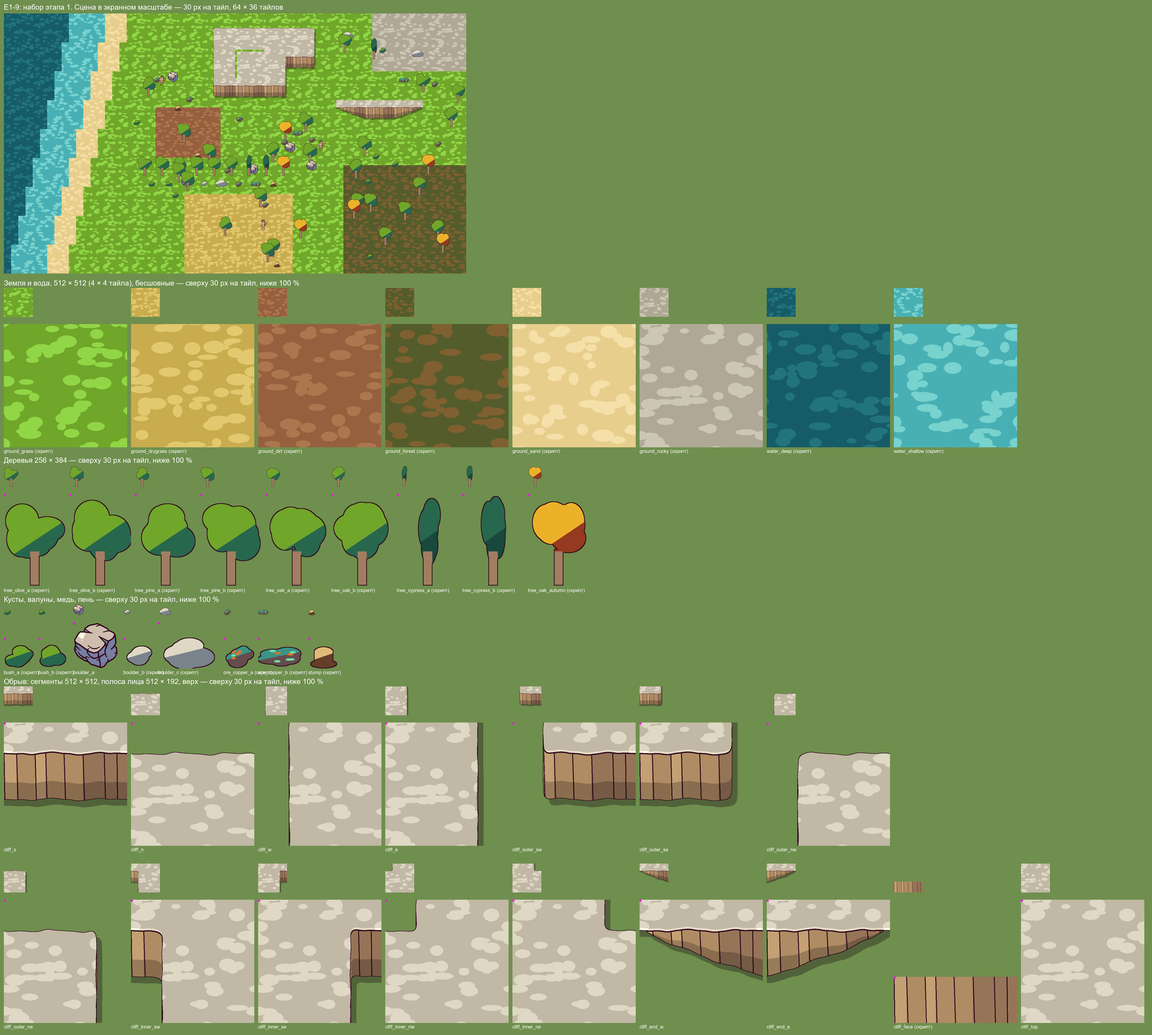
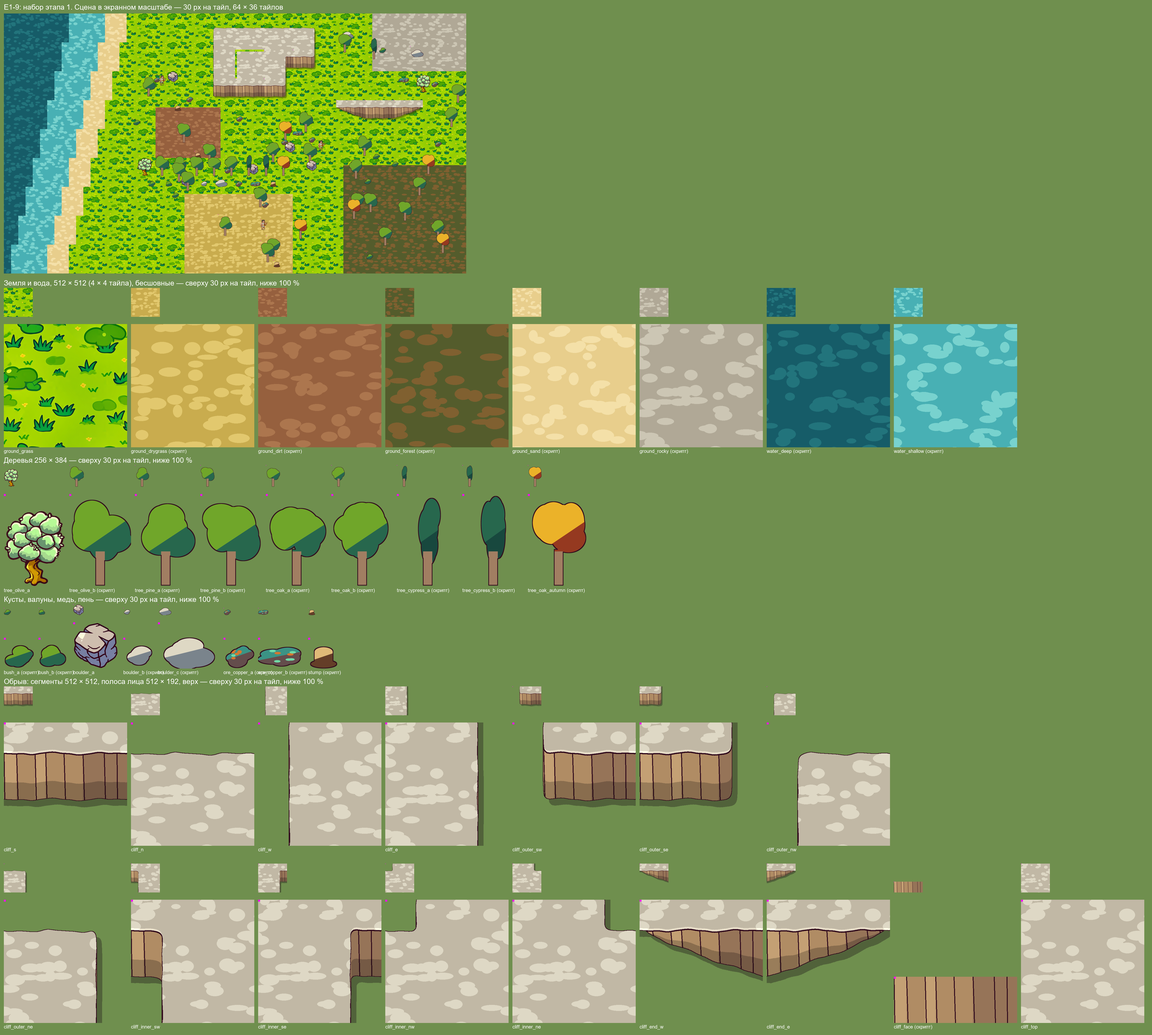
E1-9: олива по новому стилю, промпты земли и деревьев переписаны, очередь перезаказана (WIP)
- земля и вода: стиль floor — ровный мелкий узор без крупных пятен и акцентов
- деревья и кусты: стиль tree — крона из комков с двумя ступенями светотени
- TEMP_tree_olive_a — картинка Мака по новому промпту
- карточка: таблица заданий (старые — @v1), что получилось

Changed region(s): [[0.0623, 0.0, 0.4049, 0.2805], [0.0, 0.2805, 0.1246, 0.5611]]

diff --git a/work/tasks/E1-9.md b/work/tasks/E1-9.md
@@ -59,41 +59,70 @@ python tools/check_temp_assets.py
 | № | Ключ | Файл | id задания | seed | Размер | Статус | Предмет (промпт) |
 |---|---|---|---|---|---|---|---|
 | 1 | `boulder_a` | `TEMP_boulder_a.png` | `685c2248-6cd2-4e9d-a6f7-c41f23acb21b` | 1941 | 768×768 | готово | a single limestone boulder, three-quarter view from above: a massive rounded block with three or four big flat facets, warm light beige-grey top faces, cooler blue-grey shadow side on the right, two cracks |
-| 2 | `ground_grass` | `TEMP_ground_grass.png` | `71aa6e36-95c0-4ef2-851d-a49a69fa637f` | 1901 | 1024×1024 | в очереди | a sunny Greek meadow ground texture: short lush leaf-green grass drawn as large simple flat tufts and broad soft patches of two close greens, only a few tiny yellow flowers, big simple shapes |
-| 3 | `tree_olive_a` | `TEMP_tree_olive_a.png` | `7672a72a-e93b-4a7a-bbee-453c1ca00719` | 1921 | 768×1024 | в очереди | an old olive tree, three-quarter view from above: a wide rounded crown of silvery sage-green foliage drawn as five or six large simple leaf clumps with dark green shadow side, a short thick twisted ochre-brown trunk visible below the crown, the whole tree from roots to crown in frame, the crown is twice as wide as it is tall, trunk base at the bottom center |
-| 4 | `cliff_scene` | `— (проба: обрыв целиком)` | `be9775d3-1844-4617-810d-26294b6d294f` | 1972 | 1024×768 | в очереди | a long straight rocky cliff wall running horizontally across the whole picture from the left edge to the right edge: the upper third of the picture is a flat pale beige stony plateau on top of the cliff, below it the vertical cliff face of big blocky ochre-beige limestone slabs with dark cracks, at the bottom a strip of flat green grass in the cliff's shadow; the cliff continues past the left and right edges |
-| 5 | `ground_drygrass` | `TEMP_ground_drygrass.png` | `fe5fce37-d30a-44ec-9021-cfc788409b11` | 1902 | 1024×1024 | в очереди | a dry summer grassland ground texture: sun-bleached straw-yellow and golden ochre dry grass drawn as large simple flat tufts and broad patches of two close warm yellows, a few olive-green blades, big simple shapes |
-| 6 | `ground_dirt` | `TEMP_ground_dirt.png` | `0a2665ba-8ace-430f-bf18-01e0e1a329b4` | 1903 | 1024×1024 | в очереди | a bare earth ground texture: warm terracotta-brown packed soil with broad flat patches of two close browns, a few thin cracks and a few small pebbles, big simple shapes |
-| 7 | `ground_forest` | `TEMP_ground_forest.png` | `ab757cee-f564-490b-8e99-35b3f6489bd6` | 1904 | 1024×1024 | в очереди | a forest floor ground texture: dark olive-green moss and brown earth covered with large flat fallen leaves in rust, ochre and dark green, a few short twigs, big simple shapes |
-| 8 | `ground_sand` | `TEMP_ground_sand.png` | `d0577d68-3cb5-473d-b04c-109ee89c7c27` | 1905 | 1024×1024 | в очереди | a beach sand ground texture: pale golden-yellow sand with broad soft flat ripples of two close sandy tones, a few tiny shells and pebbles, big simple shapes |
-| 9 | `ground_rocky` | `TEMP_ground_rocky.png` | `83a4a1e8-9dbf-464b-8d5c-a9d6acea716e` | 1906 | 1024×1024 | в очереди | a rocky ground texture: flat cracked pale grey-beige limestone slabs of irregular shapes fitted together, dark cracks between them, a little ochre dust and a few small stones, big simple shapes |
-| 10 | `water_deep` | `TEMP_water_deep.png` | `122fd1eb-7827-4358-ac62-263ff23388c2` | 1911 | 1024×1024 | в очереди | a deep sea water surface texture: dark teal blue-green water with a few large simple flat wave shapes in a slightly lighter teal and sparse thin pale wave lines, calm, big simple shapes |
-| 11 | `water_shallow` | `TEMP_water_shallow.png` | `6b17c540-78c6-477f-8a7f-ae990a7ea5ff` | 1912 | 1024×1024 | в очереди | a shallow clear sea water surface texture: light turquoise water with large simple flat lighter aqua patches and sparse thin white wave lines, sandy bottom faintly visible, calm, big simple shapes |
-| 12 | `tree_pine_a` | `TEMP_tree_pine_a.png` | `7b7a5b4d-7897-467d-aa22-485d2971eea4` | 1923 | 768×1024 | в очереди | an Italian stone pine tree, umbrella pine, three-quarter view from above: a broad flat umbrella-shaped crown of dark emerald-green needle clumps drawn as large simple rounded masses with lighter green tops, a tall straight reddish-brown trunk with a few bare branches visible below the crown, the whole tree from roots to crown in frame, trunk base at the bottom center |
-| 13 | `tree_oak_a` | `TEMP_tree_oak_a.png` | `35d467b6-094d-4e8a-8a16-f00bcd863401` | 1925 | 768×1024 | в очереди | a big oak tree, three-quarter view from above: a large dense round crown of rich leaf-green foliage drawn as six or seven large simple lobed leaf clumps with darker green shadow side and light yellow-green tops, a thick dark brown trunk visible below the crown, the whole tree from roots to crown in frame, trunk base at the bottom center |
-| 14 | `tree_cypress_a` | `TEMP_tree_cypress_a.png` | `beeb63ab-b8e0-4d0e-a734-e4ce0c53778f` | 1927 | 768×1024 | в очереди | a tall Mediterranean cypress tree, three-quarter view from above: a narrow tall pointed column of very dark blue-green foliage drawn as a few large simple vertical flame-like masses with a lighter green lit left side, a short brown trunk visible at the very bottom, the whole tree from base to tip in frame, trunk base at the bottom center |
-| 15 | `cliff_face` | `TEMP_cliff_face.png (полоса лица)` | `5189e183-69f7-4946-ae17-248328ea4c2d` | 1971 | 1024×576 | в очереди | a flat texture strip of a vertical rocky cliff face seen from the front: big blocky limestone slabs in warm ochre-beige with cooler grey-brown shadow sides and dark vertical cracks, the rock wall fills the whole picture and continues past the left and right edges, uniform even density, no ground, no sky |
-| 16 | `boulder_b` | `TEMP_boulder_b.png` | `47031816-60e5-4864-a706-35007320c319` | 1942 | 768×768 | в очереди | a single small round limestone rock with a smaller stone leaning against it, three-quarter view from above: simple chunky shapes with big flat facets, warm light beige-grey top faces, cooler blue-grey shadow side on the right |
-| 17 | `boulder_c` | `TEMP_boulder_c.png` | `4cd84f92-70a6-4895-b0f2-82cb1ff8e493` | 1943 | 1024×768 | в очереди | a single wide flat-topped limestone outcrop, three-quarter view from above: a long low massive rock twice as wide as tall with four or five big flat facets, warm light beige-grey top faces, cooler blue-grey shadow side on the right, a patch of green moss, two cracks |
-| 18 | `tree_olive_b` | `TEMP_tree_olive_b.png` | `5d672662-7566-40e0-bed3-7e2b8a616b3b` | 1922 | 768×1024 | в очереди | a young olive tree, three-quarter view from above: an uneven lopsided crown of silvery sage-green foliage drawn as four large simple leaf clumps with dark green shadow side, a slim forked twisted ochre-brown trunk visible below the crown, the whole tree from roots to crown in frame, trunk base at the bottom center |
-| 19 | `tree_pine_b` | `TEMP_tree_pine_b.png` | `cb72f4e4-2f9e-44ff-9c74-1100d29b3a52` | 1924 | 768×1024 | в очереди | a leaning Italian stone pine tree, umbrella pine, three-quarter view from above: a wide flat lopsided umbrella crown of dark emerald-green needle clumps drawn as three large simple rounded masses with lighter green tops, a tall slightly curved reddish-brown trunk visible below the crown, the whole tree from roots to crown in frame, trunk base at the bottom center |
-| 20 | `tree_oak_b` | `TEMP_tree_oak_b.png` | `68746eb5-e6cf-4cdc-bfb9-6b4b1dbfc086` | 1926 | 768×1024 | в очереди | a sturdy oak tree, three-quarter view from above: a broad irregular crown of rich leaf-green foliage drawn as five large simple lobed leaf clumps with darker green shadow side and light yellow-green tops, a thick gnarled dark brown trunk with one big side branch visible below the crown, the whole tree from roots to crown in frame, trunk base at the bottom center |
-| 21 | `tree_cypress_b` | `TEMP_tree_cypress_b.png` | `210cbde0-ae5d-47df-b0c7-b7910520c933` | 1928 | 768×1024 | в очереди | a Mediterranean cypress tree, three-quarter view from above: a slim spindle-shaped pointed column of very dark blue-green foliage, slightly bulging in the middle, drawn as a few large simple vertical masses with a lighter green lit left side, a short brown trunk visible at the very bottom, the whole tree from base to tip in frame, trunk base at the bottom center |
-| 22 | `tree_oak_autumn` | `TEMP_tree_oak_autumn.png` | `2ff9bbd3-82aa-4ac9-a42f-46bdb49687b5` | 1929 | 768×1024 | в очереди | a big oak tree in autumn, three-quarter view from above: a large round crown of dry autumn foliage in rust-orange, golden ochre and warm red drawn as six large simple lobed leaf clumps with darker brown-red shadow side, a thick dark brown trunk visible below the crown, the whole tree from roots to crown in frame, trunk base at the bottom center |
-| 23 | `bush_a` | `TEMP_bush_a.png` | `c0d04f22-1d5b-4d86-a277-8cb9521c03f3` | 1931 | 768×768 | в очереди | a single low round shrub, three-quarter view from above: a compact dome of leaf-green foliage drawn as four or five large simple leaf clumps with darker green shadow side, no trunk visible, no flowers |
-| 24 | `bush_b` | `TEMP_bush_b.png` | `c9c774f0-01fc-4cfb-94ec-2c4e269bfc33` | 1932 | 768×768 | в очереди | a single low wide myrtle shrub with berries, three-quarter view from above: an irregular low mound of dark green foliage drawn as three or four large simple leaf clumps with a few big red berries, no trunk visible |
-| 25 | `ore_copper_a` | `TEMP_ore_copper_a.png` | `38ce4a61-cc09-447e-8a21-d6ab3b4af2b5` | 1951 | 768×768 | в очереди | a single copper ore deposit, three-quarter view from above: a chunky dark grey-brown rock with big flat facets, crossed by thick bright verdigris turquoise-green veins and rust-orange copper patches, a few shiny orange copper nuggets on top |
-| 26 | `ore_copper_b` | `TEMP_ore_copper_b.png` | `47ddeeb6-a391-47fd-8d33-d3823d8f3cd7` | 1952 | 768×768 | в очереди | a single copper ore deposit, three-quarter view from above: a low wide cluster of three chunky dark grey-brown rocks with big flat facets, streaked with thick bright verdigris turquoise-green veins and rust-orange copper patches |
-| 27 | `stump` | `TEMP_stump.png` | `58c8330b-5eb1-427c-872b-78937d3f0211` | 1961 | 768×768 | в очереди | a single tree stump, three-quarter view from above: a short wide cut trunk with a flat pale ochre top showing three big growth rings, dark brown bark sides, three short thick roots spreading at the base |
-| 28 | `cliff_corner` | `— (проба: угол обрыва)` | `5e4a3fb0-29eb-41ff-83e0-1aad82185052` | 1973 | 1024×1024 | в очереди | the outer corner of a raised rocky plateau: a flat pale beige stony plateau fills the upper left part of the picture, its edge turns a rounded corner, below the edge the vertical cliff face of big blocky ochre-beige limestone slabs with dark cracks drops down to flat green grass, the grass fills the right side and the bottom of the picture |
+| 2 | `cliff_scene` | `— (проба: обрыв целиком)` | `be9775d3-1844-4617-810d-26294b6d294f` | 1972 | 1024×768 | готово | a long straight rocky cliff wall running horizontally across the whole picture from the left edge to the right edge: the upper third of the picture is a flat pale beige stony plateau on top of the cliff, below it the vertical cliff face of big blocky ochre-beige limestone slabs with dark cracks, at the bottom a strip of flat green grass in the cliff's shadow; the cliff continues past the left and right edges |
+| 3 | `ground_drygrass` | `TEMP_ground_drygrass.png` | `fe5fce37-d30a-44ec-9021-cfc788409b11` | 1902 | 1024×1024 | в очереди | a dry summer grassland ground texture: sun-bleached straw-yellow dry grass as an even fine pattern of small short grass strokes and tiny tufts in two close warm golden yellows, the same fine pattern evenly everywhere, no large patches, no big blotches, no accents, nothing stands out |
+| 4 | `tree_olive_a` | `TEMP_tree_olive_a.png` | `50ce2a63-c754-4898-8ebe-79a38f74afa4` | 1921 | 768×1024 | готово; проба стиля «tree» (в начало очереди) — принята как tree_olive_a | an old olive tree, three-quarter view from above: a wide rounded crown built from seven or eight overlapping rounded clumps of silvery sage-green foliage, each clump with a light sunlit top and a darker shaded underside, a few simple leaf shapes along the clump edges, a short thick twisted ochre-brown trunk with a darker shadow side visible below the crown, the tree fills most of the picture, the whole tree from roots to crown in frame, trunk base at the bottom center |
+| 5 | `tree_pine_b@v1` | `TEMP_tree_pine_b.png` | `cb72f4e4-2f9e-44ff-9c74-1100d29b3a52` | 1924 | 768×1024 | cancelled; снято из очереди до запуска: промпт переписан | первый вариант промпта — `e19.json` в коммите c1f87db |
+| 6 | `ground_dirt@v1` | `TEMP_ground_dirt.png` | `0a2665ba-8ace-430f-bf18-01e0e1a329b4` | 1903 | 1024×1024 | cancelled; снято из очереди до запуска: промпт переписан | первый вариант промпта — `e19.json` в коммите c1f87db |
+| 7 | `water_deep@v1` | `TEMP_water_deep.png` | `122fd1eb-7827-4358-ac62-263ff23388c2` | 1911 | 1024×1024 | cancelled; снято из очереди до запуска: промпт переписан | первый вариант промпта — `e19.json` в коммите c1f87db |
+| 8 | `ground_forest@v1` | `TEMP_ground_forest.png` | `ab757cee-f564-490b-8e99-35b3f6489bd6` | 1904 | 1024×1024 | cancelled; снято из очереди до запуска: промпт переписан | первый вариант промпта — `e19.json` в коммите c1f87db |
+| 9 | `tree_oak_a@v1` | `TEMP_tree_oak_a.png` | `35d467b6-094d-4e8a-8a16-f00bcd863401` | 1925 | 768×1024 | cancelled; снято из очереди до запуска: промпт переписан | первый вариант промпта — `e19.json` в коммите c1f87db |
+| 10 | `water_shallow@v1` | `TEMP_water_shallow.png` | `6b17c540-78c6-477f-8a7f-ae990a7ea5ff` | 1912 | 1024×1024 | cancelled; снято из очереди до запуска: промпт переписан | первый вариант промпта — `e19.json` в коммите c1f87db |
+| 11 | `boulder_b@v1` | `TEMP_boulder_b.png` | `47031816-60e5-4864-a706-35007320c319` | 1942 | 768×768 | cancelled; снято из очереди до запуска: промпт переписан | первый вариант промпта — `e19.json` в коммите c1f87db |
+| 12 | `ground_rocky@v1` | `TEMP_ground_rocky.png` | `83a4a1e8-9dbf-464b-8d5c-a9d6acea716e` | 1906 | 1024×1024 | cancelled; снято из очереди до запуска: промпт переписан | первый вариант промпта — `e19.json` в коммите c1f87db |
+| 13 | `tree_oak_autumn@v1` | `TEMP_tree_oak_autumn.png` | `2ff9bbd3-82aa-4ac9-a42f-46bdb49687b5` | 1929 | 768×1024 | cancelled; снято из очереди до запуска: промпт переписан | первый вариант промпта — `e19.json` в коммите c1f87db |
+| 14 | `tree_cypress_b@v1` | `TEMP_tree_cypress_b.png` | `210cbde0-ae5d-47df-b0c7-b7910520c933` | 1928 | 768×1024 | cancelled; снято из очереди до запуска: промпт переписан | первый вариант промпта — `e19.json` в коммите c1f87db |
+| 15 | `boulder_c@v1` | `TEMP_boulder_c.png` | `4cd84f92-70a6-4895-b0f2-82cb1ff8e493` | 1943 | 1024×768 | cancelled; снято из очереди до запуска: промпт переписан | первый вариант промпта — `e19.json` в коммите c1f87db |
+| 16 | `tree_pine_a@v1` | `TEMP_tree_pine_a.png` | `7b7a5b4d-7897-467d-aa22-485d2971eea4` | 1923 | 768×1024 | cancelled; снято из очереди до запуска: промпт переписан | первый вариант промпта — `e19.json` в коммите c1f87db |
+| 17 | `ground_sand@v1` | `TEMP_ground_sand.png` | `d0577d68-3cb5-473d-b04c-109ee89c7c27` | 1905 | 1024×1024 | cancelled; снято из очереди до запуска: промпт переписан | первый вариант промпта — `e19.json` в коммите c1f87db |
+| 18 | `tree_olive_b@v1` | `TEMP_tree_olive_b.png` | `5d672662-7566-40e0-bed3-7e2b8a616b3b` | 1922 | 768×1024 | cancelled; снято из очереди до запуска: промпт переписан | первый вариант промпта — `e19.json` в коммите c1f87db |
+| 19 | `stump@v1` | `TEMP_stump.png` | `58c8330b-5eb1-427c-872b-78937d3f0211` | 1961 | 768×768 | cancelled; снято из очереди до запуска: промпт переписан | первый вариант промпта — `e19.json` в коммите c1f87db |
+| 20 | `tree_oak_b@v1` | `TEMP_tree_oak_b.png` | `68746eb5-e6cf-4cdc-bfb9-6b4b1dbfc086` | 1926 | 768×1024 | cancelled; снято из очереди до запуска: промпт переписан | первый вариант промпта — `e19.json` в коммите c1f87db |
+| 21 | `tree_cypress_a@v1` | `TEMP_tree_cypress_a.png` | `beeb63ab-b8e0-4d0e-a734-e4ce0c53778f` | 1927 | 768×1024 | cancelled; снято из очереди до запуска: промпт переписан | первый вариант промпта — `e19.json` в коммите c1f87db |
+| 22 | `ore_copper_b@v1` | `TEMP_ore_copper_b.png` | `47ddeeb6-a391-47fd-8d33-d3823d8f3cd7` | 1952 | 768×768 | cancelled; снято из очереди до запуска: промпт переписан | первый вариант промпта — `e19.json` в коммите c1f87db |
+| 23 | `cliff_corner@v1` | `— (проба: угол обрыва)` | `5e4a3fb0-29eb-41ff-83e0-1aad82185052` | 1973 | 1024×1024 | cancelled; снято из очереди до запуска: промпт переписан | первый вариант промпта — `e19.json` в коммите c1f87db |
+| 24 | `bush_b@v1` | `TEMP_bush_b.png` | `c9c774f0-01fc-4cfb-94ec-2c4e269bfc33` | 1932 | 768×768 | cancelled; снято из очереди до запуска: промпт переписан | первый вариант промпта — `e19.json` в коммите c1f87db |
+| 25 | `ore_copper_a@v1` | `TEMP_ore_copper_a.png` | `38ce4a61-cc09-447e-8a21-d6ab3b4af2b5` | 1951 | 768×768 | cancelled; снято из очереди до запуска: промпт переписан | первый вариант промпта — `e19.json` в коммите c1f87db |
+| 26 | `bush_a@v1` | `TEMP_bush_a.png` | `c0d04f22-1d5b-4d86-a277-8cb9521c03f3` | 1931 | 768×768 | cancelled; снято из очереди до запуска: промпт переписан | первый вариант промпта — `e19.json` в коммите c1f87db |
+| 27 | `cliff_face@v1` | `TEMP_cliff_face.png (полоса лица)` | `5189e183-69f7-4946-ae17-248328ea4c2d` | 1971 | 1024×576 | cancelled; снято из очереди до запуска: промпт переписан | первый вариант промпта — `e19.json` в коммите c1f87db |
+| 28 | `ground_grass@v1` | `TEMP_ground_grass.png` | `71aa6e36-95c0-4ef2-851d-a49a69fa637f` | 1901 | 1024×1024 | готово; первый промпт; перезаказано | первый вариант промпта — `e19.json` в коммите c1f87db |
+| 29 | `tree_olive_a@v1` | `TEMP_tree_olive_a.png` | `7672a72a-e93b-4a7a-bbee-453c1ca00719` | 1921 | 768×1024 | готово; первый промпт; перезаказано | первый вариант промпта — `e19.json` в коммите c1f87db |
+| 30 | `ground_grass` | `TEMP_ground_grass.png` | `35da8ae5-db79-4809-aae6-de2482cab4f9` | 1901 | 1024×1024 | в очереди | a sunny Greek meadow ground texture: short lush leaf-green grass as an even fine pattern of small short grass strokes and tiny tufts in two close greens, the same fine pattern evenly everywhere, no large patches, no big blotches, no accents, nothing stands out |
+| 31 | `ground_dirt` | `TEMP_ground_dirt.png` | `d35db613-2473-4d58-925f-6818cb5d9482` | 1903 | 1024×1024 | в очереди | a bare earth ground texture: warm terracotta-brown packed soil as an even fine pattern of small flat specks, tiny pebbles and short thin cracks in two close browns, the same fine pattern evenly everywhere, no large patches, no big blotches, no accents, nothing stands out |
+| 32 | `ground_forest` | `TEMP_ground_forest.png` | `de4bb6cb-e922-4ee1-b8e3-34c1c69147a3` | 1904 | 1024×1024 | в очереди | a forest floor ground texture: dark olive-brown earth evenly covered with small fallen leaves in rust, ochre and dark green and short twigs, an even fine leaf litter pattern, the same fine pattern evenly everywhere, no large patches, no big blotches, no accents, nothing stands out |
+| 33 | `ground_sand` | `TEMP_ground_sand.png` | `672a636b-96f4-4c2a-85d7-1a4e6d30c690` | 1905 | 1024×1024 | в очереди | a beach sand ground texture: pale golden-yellow sand as an even fine pattern of small soft ripples and tiny specks in two close sandy tones, the same fine pattern evenly everywhere, no large patches, no big blotches, no accents, nothing stands out |
+| 34 | `ground_rocky` | `TEMP_ground_rocky.png` | `d1bf6847-cf97-44ba-ab3c-35bebcab6256` | 1906 | 1024×1024 | в очереди | a rocky ground texture: pale grey-beige limestone ground as an even pattern of small flat irregular stones fitted together with thin dark cracks and a little ochre dust, all stones about the same small size, the same fine pattern evenly everywhere, no large patches, no big blotches, no accents, nothing stands out |
+| 35 | `water_deep` | `TEMP_water_deep.png` | `fd6617aa-8b86-41a7-954e-9b18689cdf0c` | 1911 | 1024×1024 | в очереди | a deep sea water surface texture: dark teal blue-green water as an even fine pattern of small simple flat wavelets in a slightly lighter teal and short thin pale wave lines, calm, the same fine pattern evenly everywhere, no large patches, no big blotches, no accents, nothing stands out |
+| 36 | `water_shallow` | `TEMP_water_shallow.png` | `a7dc603f-ce85-4450-94f6-3ebe8c79c764` | 1912 | 1024×1024 | в очереди | a shallow clear sea water surface texture: light turquoise water as an even fine pattern of small simple flat wavelets in lighter aqua and short thin white wave lines, calm, the same fine pattern evenly everywhere, no large patches, no big blotches, no accents, nothing stands out |
+| 37 | `tree_pine_a` | `TEMP_tree_pine_a.png` | `665431b5-21c0-4eb2-b2e1-9a27b672fa4a` | 1923 | 768×1024 | в очереди | an Italian stone pine, umbrella pine tree, three-quarter view from above: a broad flat umbrella-shaped crown built from six overlapping rounded puffy clumps of dark emerald-green needles, each clump with a light sunlit top and a darker shaded underside, a tall straight bare reddish-brown trunk with a darker shadow side below the crown, the crown is much wider than the trunk is tall, the tree fills most of the picture, the whole tree from roots to crown in frame, trunk base at the bottom center |
+| 38 | `tree_oak_a` | `TEMP_tree_oak_a.png` | `6f1656da-3c97-42fd-8ab6-d93f81c0dcfa` | 1925 | 768×1024 | в очереди | a big oak tree, three-quarter view from above: a large dense round crown built from eight or nine overlapping rounded lobed clumps of rich leaf-green foliage, each clump with a light yellow-green sunlit top and a dark green shaded underside, a thick dark brown trunk with a darker shadow side visible below the crown, the tree fills most of the picture, the whole tree from roots to crown in frame, trunk base at the bottom center |
+| 39 | `tree_cypress_a` | `TEMP_tree_cypress_a.png` | `138dd0a3-cbc4-4173-9d1b-8058cdcc6437` | 1927 | 768×1024 | в очереди | a tall Mediterranean cypress tree, three-quarter view from above: a narrow tall pointed column of very dark blue-green foliage built from overlapping upward-pointing flame-shaped clumps, each clump with a lighter green sunlit left side and a dark shaded right side, a short brown trunk visible at the very bottom, the tree is four times taller than wide, the whole tree from base to tip in frame, trunk base at the bottom center |
+| 40 | `cliff_face` | `TEMP_cliff_face.png (полоса лица)` | `eaac54a8-f16f-4433-a457-0e3eb321524c` | 1971 | 1024×576 | в очереди | a flat texture strip of a vertical rocky cliff face seen from the front: big blocky limestone slabs in warm ochre-beige with cooler grey-brown shadow sides and dark vertical cracks, the rock wall fills the whole picture and continues past the left and right edges, uniform even density, no ground, no sky |
+| 41 | `boulder_b` | `TEMP_boulder_b.png` | `6ab2a254-0856-482f-8a8f-b9f7da69cf19` | 1942 | 768×768 | в очереди | a single small round limestone rock with a smaller stone leaning against it, three-quarter view from above: simple chunky shapes with big flat facets, warm light beige-grey top faces, cooler blue-grey shadow side on the right |
+| 42 | `boulder_c` | `TEMP_boulder_c.png` | `14836b51-4a20-42cf-929e-8237333f4f7a` | 1943 | 1024×768 | в очереди | a single wide flat-topped limestone outcrop, three-quarter view from above: a long low massive rock twice as wide as tall with four or five big flat facets, warm light beige-grey top faces, cooler blue-grey shadow side on the right, a patch of green moss, two cracks |
+| 43 | `tree_olive_b` | `TEMP_tree_olive_b.png` | `01a2debf-2975-4b36-81ee-449e09855b67` | 1922 | 768×1024 | в очереди | a young olive tree, three-quarter view from above: an uneven lopsided crown built from five overlapping rounded clumps of silvery sage-green foliage, each clump with a light sunlit top and a darker shaded underside, a few simple leaf shapes along the clump edges, a slim forked twisted ochre-brown trunk with a darker shadow side visible below the crown, the tree fills most of the picture, the whole tree from roots to crown in frame, trunk base at the bottom center |
+| 44 | `tree_pine_b` | `TEMP_tree_pine_b.png` | `675147d5-d928-438e-bbc0-f372cf66eb76` | 1924 | 768×1024 | в очереди | a leaning Italian stone pine, umbrella pine tree, three-quarter view from above: a wide flat lopsided umbrella crown built from four overlapping rounded puffy clumps of dark emerald-green needles, each clump with a light sunlit top and a darker shaded underside, a tall curved bare reddish-brown trunk with a darker shadow side below the crown, the tree fills most of the picture, the whole tree from roots to crown in frame, trunk base at the bottom center |
+| 45 | `tree_oak_b` | `TEMP_tree_oak_b.png` | `5bc743be-457a-497d-96d5-65322bbe42c3` | 1926 | 768×1024 | в очереди | a sturdy oak tree, three-quarter view from above: a broad irregular crown built from six overlapping rounded lobed clumps of rich leaf-green foliage, each clump with a light yellow-green sunlit top and a dark green shaded underside, a thick gnarled dark brown trunk with one big side branch visible below the crown, the tree fills most of the picture, the whole tree from roots to crown in frame, trunk base at the bottom center |
+| 46 | `tree_cypress_b` | `TEMP_tree_cypress_b.png` | `76172e7a-86f5-4fba-b271-22930b7d0ed4` | 1928 | 768×1024 | в очереди | a Mediterranean cypress tree, three-quarter view from above: a slim spindle-shaped pointed column of very dark blue-green foliage, bulging in the middle, built from overlapping upward-pointing flame-shaped clumps, each clump with a lighter green sunlit left side and a dark shaded right side, a short brown trunk visible at the very bottom, the tree is three times taller than wide, the whole tree from base to tip in frame, trunk base at the bottom center |
+| 47 | `tree_oak_autumn` | `TEMP_tree_oak_autumn.png` | `be9aac93-e78e-4a62-b474-ce0cd45d4eb2` | 1929 | 768×1024 | в очереди | a big oak tree in autumn, three-quarter view from above: a large round crown built from seven overlapping rounded lobed clumps of dry autumn foliage in rust-orange and golden ochre, each clump with a light golden sunlit top and a dark red-brown shaded underside, a thick dark brown trunk with a darker shadow side visible below the crown, the tree fills most of the picture, the whole tree from roots to crown in frame, trunk base at the bottom center |
+| 48 | `bush_a` | `TEMP_bush_a.png` | `940e68ec-1fe6-4880-b80b-036fa049da09` | 1931 | 768×768 | в очереди | a single low round shrub, three-quarter view from above: a compact dome built from five overlapping rounded clumps of leaf-green foliage, each clump with a light sunlit top and a darker shaded underside, no trunk visible, no flowers, the shrub fills most of the picture |
+| 49 | `bush_b` | `TEMP_bush_b.png` | `d68bde73-d841-43d9-ae67-d00733b56a5b` | 1932 | 768×768 | в очереди | a single low wide myrtle shrub with berries, three-quarter view from above: an irregular low mound built from four overlapping rounded clumps of dark green foliage, each clump with a light sunlit top and a darker shaded underside, a few big red berries, no trunk visible, the shrub fills most of the picture |
+| 50 | `ore_copper_a` | `TEMP_ore_copper_a.png` | `a5e8bd29-62f9-4b77-8231-5b8ddb3739be` | 1951 | 768×768 | в очереди | a single copper ore deposit, three-quarter view from above: a chunky dark grey-brown rock with big flat facets, crossed by thick bright verdigris turquoise-green veins and rust-orange copper patches, a few shiny orange copper nuggets on top |
+| 51 | `ore_copper_b` | `TEMP_ore_copper_b.png` | `41137745-7c10-457a-a181-d9ceb8ebc083` | 1952 | 768×768 | в очереди | a single copper ore deposit, three-quarter view from above: a low wide cluster of three chunky dark grey-brown rocks with big flat facets, streaked with thick bright verdigris turquoise-green veins and rust-orange copper patches |
+| 52 | `stump` | `TEMP_stump.png` | `65345c53-7f23-4017-87a7-2c1dcc0ba710` | 1961 | 768×768 | в очереди | a single tree stump, three-quarter view from above: a short wide cut trunk with a flat pale ochre top showing three big growth rings, dark brown bark sides, three short thick roots spreading at the base |
+| 53 | `cliff_corner` | `— (проба: угол обрыва)` | `03c251a4-85b1-4b94-882f-2bb5474ad8f7` | 1973 | 1024×1024 | в очереди | the outer corner of a raised rocky plateau: a flat pale beige stony plateau fills the upper left part of the picture, its edge turns a rounded corner, below the edge the vertical cliff face of big blocky ochre-beige limestone slabs with dark cracks drops down to flat green grass, the grass fills the right side and the bottom of the picture |
 
 ## Что получилось / не получилось
 
 - 13.11 23:10 — очередь поставлена (28 заданий: 26 картинок набора + 2 пробы обрыва целиком). Скриптовые заглушки всего набора имён готовы, `check_temp_assets.py` зелёный (46 заглушек).
 - `boulder_a` (768 px, ~5 мин): стиль держится — толстый сливовый контур, две ступени, один блик, крупные грани. Верхняя светло-бежевая грань совпала по цвету с фоном, обработка приняла её за дыру — поиск «дыр» оставлен только кронам деревьев.
 - Обрыв: сегменты собраны скриптом и стыкуются по сетке (проверено в сцене листа: Г-образное плато с внутренним углом и стенка с двумя торцами). Полоса лица пока скриптовая — ждёт `cliff_face` с Мака.
+- `ground_grass` v1 (1024 px, 9 мин): шов не виден, но крупные тёмные пятна-«кувшинки» и кочки с жирным контуром повторяются каждые 4 тайла. Причина — общий стиль («bold outlines around every shape, large shapes») и слова «large tufts, broad patches». Для земли и воды заведён свой стиль `floor` (ровный мелкий узор, без жирного контура и крупных форм), промпты переписаны («even fine pattern … no large patches, no accents»), в негатив добавлены пятна и кочки.
+- `tree_olive_a` v1 (768 × 1024, 7 мин): слишком грубо — крона одним плоским пятном, контур втрое толще эталона. Проба со стилем `tree` (контур средней толщины, явные две ступени, «crown built from overlapping rounded clumps, each with a light sunlit top and a darker shaded underside») дала хорошую картинку — она принята как `tree_olive_a`; все деревья и кусты переписаны по этому образцу.
+- 23:44 — 23 ещё не начатых задания сняты из очереди (свои, по id) и поставлены заново с новыми промптами в порядке важности: земля → вода → деревья (первые варианты) → лицо обрыва → валуны → вторые варианты деревьев → кусты, руда, пень → проба угла обрыва. `ground_drygrass` успел уйти со старым промптом — посмотреть и при нужде перезаказать.
+- `cliff_scene` (проба обрыва целиком): модель рисует обрыв по диагонали, с небом — для сегментов не годится, как и ожидалось; сегменты остаются скриптовой сборкой.
 
 ## Место остановки
 
-13.11 23:12. Очередь Мака идёт (оценка конца — около 02:30 14.11: 1024 px ≈ 9 мин, 768 × 1024 ≈ 6,5 мин, 768 px ≈ 5 мин). Сырые картинки и `ledger.json` — в папке `--raw` (в этой сессии — scratchpad `e19/raw`).
+13.11 23:45. Очередь Мака идёт: 1 идёт + 24 ждут, оценка конца — около 02:50 14.11 (1024 px ≈ 9 мин, 768 × 1024 ≈ 7 мин, 768 px ≈ 5 мин). Сырые картинки и `ledger.json` — в папке `--raw` (в этой сессии — scratchpad `e19/raw`).
 Дальше: `art_stage1.py collect` → смотреть сырые → `art_stage1_build.py` → смотреть лист и склейки 2 × 2 земли (`--preview`) → неудачные перезаказать (поправить промпт в `e19.json`, `queue <ключ> --force`) → для `cliff_face` выбрать вырезку полосы (сейчас сборка ждёт файл `cliff_face_strip.png` в папке `--raw`) → обновить таблицу заданий, «Что получилось», `art.md`, коммит, пуш. Проверки `reviewer` ещё не было.
